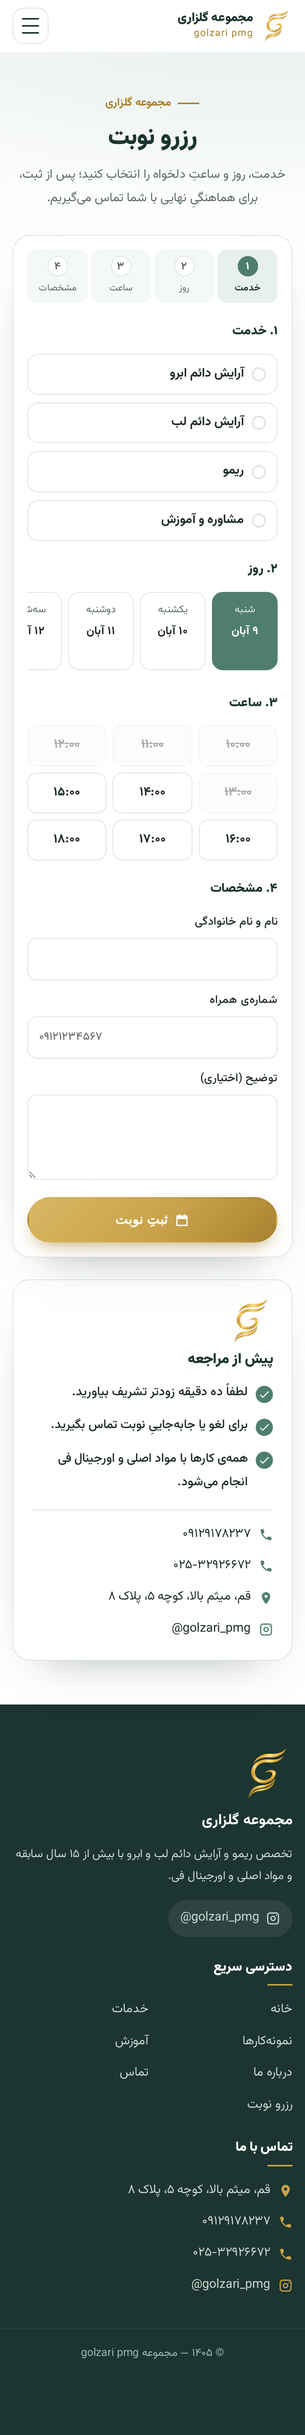
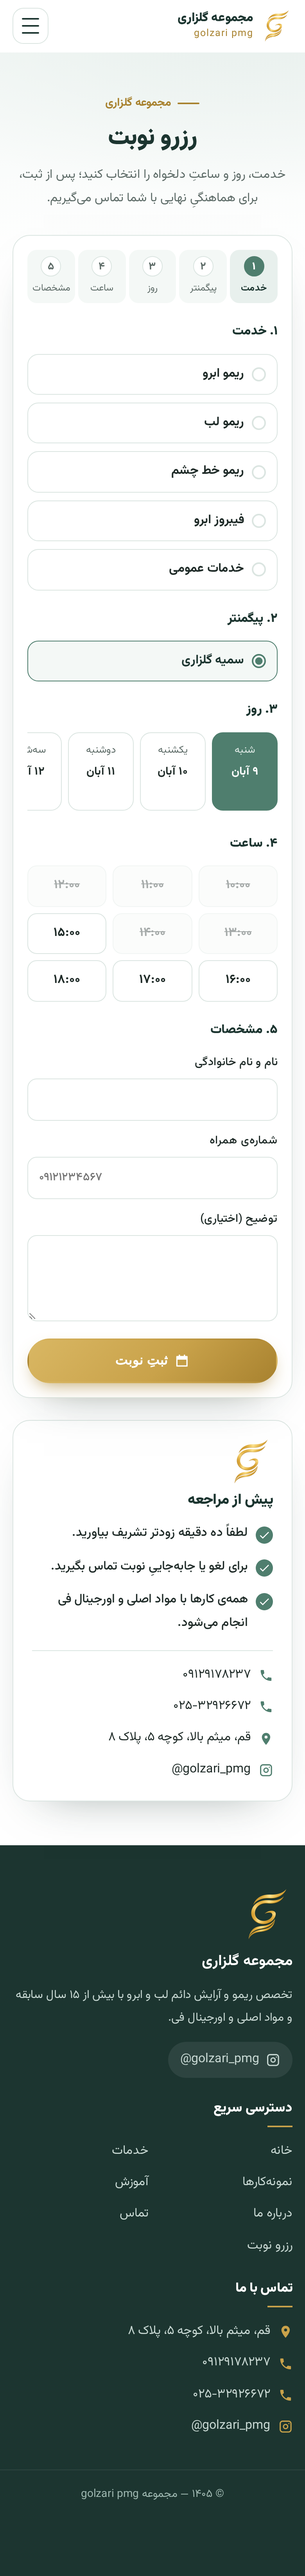
عکس _booking_-mobile.png

diff --git a/_booking_-mobile.html b/_booking_-mobile.html
@@ -16,7 +16,7 @@ img:is([sizes=auto i],[sizes^="auto," i]){contain-intrinsic-size:3000px 1500px}
 /*# sourceURL=wp-img-auto-sizes-contain-inline-css */
 </style>
 <link rel='stylesheet' id='dashicons-css' href='https://golzaripmg.ir/wp-includes/css/dashicons.min.css?ver=7.1.4' media='all' />
-<link rel='stylesheet' id='golzari-home-css' href='https://golzaripmg.ir/wp-content/plugins/golzari-brand/assets/home.css?ver=2.1.0' media='all' />
+<link rel='stylesheet' id='golzari-home-css' href='https://golzaripmg.ir/wp-content/plugins/golzari-brand/assets/home.css?ver=2.2.1' media='all' />
 <link rel="https://api.w.org/" href="https://golzaripmg.ir/wp-json/" /><link rel="alternate" title="JSON" type="application/json" href="https://golzaripmg.ir/wp-json/wp/v2/pages/132" /><link rel="EditURI" type="application/rsd+xml" title="RSD" href="https://golzaripmg.ir/xmlrpc.php?rsd" />
 <meta name="generator" content="WordPress 7.1.4" />
 <link rel="canonical" href="https://golzaripmg.ir/booking/" />
@@ -42,9 +42,9 @@ img:is([sizes=auto i],[sizes^="auto," i]){contain-intrinsic-size:3000px 1500px}
 					}
 				}
 			</style>
-			<link rel="icon" href="https://golzaripmg.ir/wp-content/plugins/golzari-brand/assets/icon-32.png?ver=2.1.0" sizes="32x32" />
-<link rel="icon" href="https://golzaripmg.ir/wp-content/plugins/golzari-brand/assets/icon-192.png?ver=2.1.0" sizes="192x192" />
-<link rel="apple-touch-icon" href="https://golzaripmg.ir/wp-content/plugins/golzari-brand/assets/icon-180.png?ver=2.1.0" />
+			<link rel="icon" href="https://golzaripmg.ir/wp-content/plugins/golzari-brand/assets/icon-32.png?ver=2.2.1" sizes="32x32" />
+<link rel="icon" href="https://golzaripmg.ir/wp-content/plugins/golzari-brand/assets/icon-192.png?ver=2.2.1" sizes="192x192" />
+<link rel="apple-touch-icon" href="https://golzaripmg.ir/wp-content/plugins/golzari-brand/assets/icon-180.png?ver=2.2.1" />
 <meta name="msapplication-TileImage" content="https://golzaripmg.ir/wp-content/uploads/2026/06/cropped-PM-270x270.png" />
 
 </head>
@@ -53,7 +53,7 @@ img:is([sizes=auto i],[sizes^="auto," i]){contain-intrinsic-size:3000px 1500px}
 <header class="gz-header" id="gz-header">
 	<div class="gz-wrap gz-header__in">
 		<a class="gz-brand" href="https://golzaripmg.ir/">
-			<img src="https://golzaripmg.ir/wp-content/plugins/golzari-brand/assets/logo.webp?ver=2.1.0" width="512" height="512" alt="گلزاری">
+			<img src="https://golzaripmg.ir/wp-content/plugins/golzari-brand/assets/logo.webp?ver=2.2.1" width="512" height="512" alt="گلزاری">
 			<span><strong>مجموعه گلزاری</strong><small>golzari pmg</small></span>
 		</a>
 		<nav class="gz-nav" id="gz-nav" aria-label="خانه">
@@ -86,33 +86,42 @@ img:is([sizes=auto i],[sizes^="auto," i]){contain-intrinsic-size:3000px 1500px}
 			<form class="gz-bookform" id="gz-bookform" novalidate>
 				<ol class="gz-steps" aria-hidden="true">
 											<li data-step="1" class="is-on"><b>۱</b><span>خدمت</span></li>
-											<li data-step="2"><b>۲</b><span>روز</span></li>
-											<li data-step="3"><b>۳</b><span>ساعت</span></li>
-											<li data-step="4"><b>۴</b><span>مشخصات</span></li>
+											<li data-step="2"><b>۲</b><span>پیگمنتر</span></li>
+											<li data-step="3"><b>۳</b><span>روز</span></li>
+											<li data-step="4"><b>۴</b><span>ساعت</span></li>
+											<li data-step="5"><b>۵</b><span>مشخصات</span></li>
 									</ol>
 
 				<fieldset class="gz-field">
 					<legend>۱. خدمت</legend>
 					<div class="gz-choices" id="gz-services">
-													<label class="gz-choice"><input type="radio" name="service" value="s1"><span>آرایش دائم ابرو</span></label>
-													<label class="gz-choice"><input type="radio" name="service" value="s2"><span>آرایش دائم لب</span></label>
-													<label class="gz-choice"><input type="radio" name="service" value="s3"><span>ریمو</span></label>
-													<label class="gz-choice"><input type="radio" name="service" value="s4"><span>مشاوره و آموزش</span></label>
+													<label class="gz-choice"><input type="radio" name="service" value="remo-brow"><span>ریمو ابرو</span></label>
+													<label class="gz-choice"><input type="radio" name="service" value="remo-lip"><span>ریمو لب</span></label>
+													<label class="gz-choice"><input type="radio" name="service" value="remo-liner"><span>ریمو خط چشم</span></label>
+													<label class="gz-choice"><input type="radio" name="service" value="fibrosis"><span>فیبروز ابرو</span></label>
+													<label class="gz-choice"><input type="radio" name="service" value="general"><span>خدمات عمومی</span></label>
 											</div>
 				</fieldset>
 
 				<fieldset class="gz-field">
-					<legend>۲. روز</legend>
+					<legend>۲. پیگمنتر</legend>
+					<div class="gz-choices" id="gz-staff">
+													<label class="gz-choice gz-choice--person"><input type="radio" name="staff" value="golzari" checked><span>سمیه گلزاری</span></label>
+											</div>
+				</fieldset>
+
+				<fieldset class="gz-field">
+					<legend>۳. روز</legend>
 					<div class="gz-days" id="gz-days"><p class="gz-muted">در حالِ خواندنِ ساعتهای آزاد…</p></div>
 				</fieldset>
 
 				<fieldset class="gz-field">
-					<legend>۳. ساعت</legend>
+					<legend>۴. ساعت</legend>
 					<div class="gz-times" id="gz-times"><p class="gz-muted">—</p></div>
 				</fieldset>
 
 				<fieldset class="gz-field">
-					<legend>۴. مشخصات</legend>
+					<legend>۵. مشخصات</legend>
 					<div class="gz-inputs">
 						<label><span>نام و نام خانوادگی</span><input type="text" name="name" autocomplete="name" required></label>
 						<label><span>شمارهی همراه</span><input type="tel" name="phone" inputmode="tel" autocomplete="tel" dir="ltr" placeholder="۰۹۱۲۱۲۳۴۵۶۷" required></label>
@@ -135,7 +144,7 @@ img:is([sizes=auto i],[sizes^="auto," i]){contain-intrinsic-size:3000px 1500px}
 			</div>
 
 			<aside class="gz-bookside">
-				<img src="https://golzaripmg.ir/wp-content/plugins/golzari-brand/assets/logo.webp?ver=2.1.0" width="512" height="512" alt="گلزاری" loading="lazy">
+				<img src="https://golzaripmg.ir/wp-content/plugins/golzari-brand/assets/logo.webp?ver=2.2.1" width="512" height="512" alt="گلزاری" loading="lazy">
 				<h3>پیش از مراجعه</h3>
 				<ul class="gz-checks">
 											<li><svg viewBox="0 0 24 24" aria-hidden="true"><path d="M9 16.2 4.8 12l-1.4 1.4L9 19 21 7l-1.4-1.4z"/></svg>لطفاً ده دقیقه زودتر تشریف بیاورید.</li>
@@ -158,7 +167,7 @@ img:is([sizes=auto i],[sizes^="auto," i]){contain-intrinsic-size:3000px 1500px}
 <footer class="gz-footer" id="contact">
 	<div class="gz-wrap gz-footer__in">
 		<div class="gz-footer__brand">
-			<img src="https://golzaripmg.ir/wp-content/plugins/golzari-brand/assets/logo.webp?ver=2.1.0" width="512" height="512" alt="گلزاری" loading="lazy">
+			<img src="https://golzaripmg.ir/wp-content/plugins/golzari-brand/assets/logo.webp?ver=2.2.1" width="512" height="512" alt="گلزاری" loading="lazy">
 			<strong>مجموعه گلزاری</strong>
 			<p>تخصص ریمو و آرایش دائم لب و ابرو با بیش از ۱۵ سال سابقه و مواد اصلی و اورجینال فی.</p>
 			<a class="gz-social" href="https://instagram.com/golzari_pmg/" target="_blank" rel="noopener"><svg viewBox="0 0 24 24" aria-hidden="true"><path d="M7 2h10a5 5 0 0 1 5 5v10a5 5 0 0 1-5 5H7a5 5 0 0 1-5-5V7a5 5 0 0 1 5-5zm0 2a3 3 0 0 0-3 3v10a3 3 0 0 0 3 3h10a3 3 0 0 0 3-3V7a3 3 0 0 0-3-3H7zm5 3.5a4.5 4.5 0 1 1 0 9 4.5 4.5 0 0 1 0-9zm0 2a2.5 2.5 0 1 0 0 5 2.5 2.5 0 0 0 0-5zM17.5 6a1 1 0 1 1 0 2 1 1 0 0 1 0-2z"/></svg><span dir="ltr">@golzari_pmg</span></a>
@@ -207,13 +216,13 @@ img:is([sizes=auto i],[sizes^="auto," i]){contain-intrinsic-size:3000px 1500px}
 		<svg class="ct-icon" width="15" height="15" viewBox="0 0 20 20"><path d="M2.3 15.2L10 7.5l7.7 7.6c.6.7 1.2.7 1.8 0 .6-.6.6-1.3 0-1.9l-8.6-8.6c-.2-.3-.5-.4-.9-.4s-.7.1-.9.4L.5 13.2c-.6.6-.6 1.2 0 1.9.6.8 1.2.7 1.8.1z"/></svg>	</a>
 
 	</div></div>			
-			<script id="golzari-home-js" src="https://golzaripmg.ir/wp-content/plugins/golzari-brand/assets/home.js?ver=2.1.0"></script>
+			<script id="golzari-home-js" src="https://golzaripmg.ir/wp-content/plugins/golzari-brand/assets/home.js?ver=2.2.1"></script>
 <script id="golzari-booking-js-extra">
-var GZBooking = {"api":"https://golzaripmg.ir/wp-json/golzari/v1/booking","msg":{"b_loading":"\u062f\u0631 \u062d\u0627\u0644\u0650 \u062e\u0648\u0627\u0646\u062f\u0646\u0650 \u0633\u0627\u0639\u062a\u200c\u0647\u0627\u06cc \u0622\u0632\u0627\u062f\u2026","b_nofree":"\u0628\u0631\u0627\u06cc \u0627\u06cc\u0646 \u0631\u0648\u0632 \u0633\u0627\u0639\u062a\u0650 \u0622\u0632\u0627\u062f\u06cc \u0646\u0645\u0627\u0646\u062f\u0647\u061b \u0631\u0648\u0632\u0650 \u062f\u06cc\u06af\u0631\u06cc \u0631\u0627 \u0627\u0646\u062a\u062e\u0627\u0628 \u06a9\u0646\u06cc\u062f.","b_closed":"\u062a\u0639\u0637\u06cc\u0644","b_done_title":"\u0646\u0648\u0628\u062a\u0650 \u0634\u0645\u0627 \u062b\u0628\u062a \u0634\u062f","b_done_text":"\u0628\u0631\u0627\u06cc \u0647\u0645\u0627\u0647\u0646\u06af\u06cc\u0650 \u0646\u0647\u0627\u06cc\u06cc \u0628\u0647\u200c\u0632\u0648\u062f\u06cc \u0628\u0627 \u0634\u0645\u0627 \u062a\u0645\u0627\u0633 \u0645\u06cc\u200c\u06af\u06cc\u0631\u06cc\u0645.","b_err_phone":"\u0634\u0645\u0627\u0631\u0647\u200c\u06cc \u0647\u0645\u0631\u0627\u0647 \u0631\u0627 \u062f\u0631\u0633\u062a \u0648\u0627\u0631\u062f \u06a9\u0646\u06cc\u062f (\u0645\u062b\u0644\u0650 \u06f0\u06f9\u06f1\u06f2\u06f1\u06f2\u06f3\u06f4\u06f5\u06f6\u06f7).","b_err_name":"\u0646\u0627\u0645 \u0631\u0627 \u0648\u0627\u0631\u062f \u06a9\u0646\u06cc\u062f.","b_err_pick":"\u062e\u062f\u0645\u062a\u060c \u0631\u0648\u0632 \u0648 \u0633\u0627\u0639\u062a \u0631\u0627 \u0627\u0646\u062a\u062e\u0627\u0628 \u06a9\u0646\u06cc\u062f.","b_err_taken":"\u0627\u06cc\u0646 \u0633\u0627\u0639\u062a \u0647\u0645\u06cc\u0646 \u062d\u0627\u0644\u0627 \u0631\u0632\u0631\u0648 \u0634\u062f\u061b \u0633\u0627\u0639\u062a\u0650 \u062f\u06cc\u06af\u0631\u06cc \u0627\u0646\u062a\u062e\u0627\u0628 \u06a9\u0646\u06cc\u062f.","b_err_limit":"\u062a\u0639\u062f\u0627\u062f\u0650 \u062f\u0631\u062e\u0648\u0627\u0633\u062a\u200c\u0647\u0627 \u0632\u06cc\u0627\u062f \u0627\u0633\u062a\u061b \u06a9\u0645\u06cc \u0628\u0639\u062f \u062f\u0648\u0628\u0627\u0631\u0647 \u0627\u0645\u062a\u062d\u0627\u0646 \u06a9\u0646\u06cc\u062f \u06cc\u0627 \u062a\u0645\u0627\u0633 \u0628\u06af\u06cc\u0631\u06cc\u062f.","b_err_net":"\u0627\u0631\u062a\u0628\u0627\u0637 \u0628\u0631\u0642\u0631\u0627\u0631 \u0646\u0634\u062f\u061b \u062f\u0648\u0628\u0627\u0631\u0647 \u0627\u0645\u062a\u062d\u0627\u0646 \u06a9\u0646\u06cc\u062f \u06cc\u0627 \u062a\u0645\u0627\u0633 \u0628\u06af\u06cc\u0631\u06cc\u062f.","b_submit":"\u062b\u0628\u062a\u0650 \u0646\u0648\u0628\u062a","b_step1":"\u062e\u062f\u0645\u062a","b_step2":"\u0631\u0648\u0632","b_step3":"\u0633\u0627\u0639\u062a","b_name":"\u0646\u0627\u0645 \u0648 \u0646\u0627\u0645 \u062e\u0627\u0646\u0648\u0627\u062f\u06af\u06cc"}};
-var GZBooking = {"api":"https://golzaripmg.ir/wp-json/golzari/v1/booking","msg":{"b_loading":"\u062f\u0631 \u062d\u0627\u0644\u0650 \u062e\u0648\u0627\u0646\u062f\u0646\u0650 \u0633\u0627\u0639\u062a\u200c\u0647\u0627\u06cc \u0622\u0632\u0627\u062f\u2026","b_nofree":"\u0628\u0631\u0627\u06cc \u0627\u06cc\u0646 \u0631\u0648\u0632 \u0633\u0627\u0639\u062a\u0650 \u0622\u0632\u0627\u062f\u06cc \u0646\u0645\u0627\u0646\u062f\u0647\u061b \u0631\u0648\u0632\u0650 \u062f\u06cc\u06af\u0631\u06cc \u0631\u0627 \u0627\u0646\u062a\u062e\u0627\u0628 \u06a9\u0646\u06cc\u062f.","b_closed":"\u062a\u0639\u0637\u06cc\u0644","b_done_title":"\u0646\u0648\u0628\u062a\u0650 \u0634\u0645\u0627 \u062b\u0628\u062a \u0634\u062f","b_done_text":"\u0628\u0631\u0627\u06cc \u0647\u0645\u0627\u0647\u0646\u06af\u06cc\u0650 \u0646\u0647\u0627\u06cc\u06cc \u0628\u0647\u200c\u0632\u0648\u062f\u06cc \u0628\u0627 \u0634\u0645\u0627 \u062a\u0645\u0627\u0633 \u0645\u06cc\u200c\u06af\u06cc\u0631\u06cc\u0645.","b_err_phone":"\u0634\u0645\u0627\u0631\u0647\u200c\u06cc \u0647\u0645\u0631\u0627\u0647 \u0631\u0627 \u062f\u0631\u0633\u062a \u0648\u0627\u0631\u062f \u06a9\u0646\u06cc\u062f (\u0645\u062b\u0644\u0650 \u06f0\u06f9\u06f1\u06f2\u06f1\u06f2\u06f3\u06f4\u06f5\u06f6\u06f7).","b_err_name":"\u0646\u0627\u0645 \u0631\u0627 \u0648\u0627\u0631\u062f \u06a9\u0646\u06cc\u062f.","b_err_pick":"\u062e\u062f\u0645\u062a\u060c \u0631\u0648\u0632 \u0648 \u0633\u0627\u0639\u062a \u0631\u0627 \u0627\u0646\u062a\u062e\u0627\u0628 \u06a9\u0646\u06cc\u062f.","b_err_taken":"\u0627\u06cc\u0646 \u0633\u0627\u0639\u062a \u0647\u0645\u06cc\u0646 \u062d\u0627\u0644\u0627 \u0631\u0632\u0631\u0648 \u0634\u062f\u061b \u0633\u0627\u0639\u062a\u0650 \u062f\u06cc\u06af\u0631\u06cc \u0627\u0646\u062a\u062e\u0627\u0628 \u06a9\u0646\u06cc\u062f.","b_err_limit":"\u062a\u0639\u062f\u0627\u062f\u0650 \u062f\u0631\u062e\u0648\u0627\u0633\u062a\u200c\u0647\u0627 \u0632\u06cc\u0627\u062f \u0627\u0633\u062a\u061b \u06a9\u0645\u06cc \u0628\u0639\u062f \u062f\u0648\u0628\u0627\u0631\u0647 \u0627\u0645\u062a\u062d\u0627\u0646 \u06a9\u0646\u06cc\u062f \u06cc\u0627 \u062a\u0645\u0627\u0633 \u0628\u06af\u06cc\u0631\u06cc\u062f.","b_err_net":"\u0627\u0631\u062a\u0628\u0627\u0637 \u0628\u0631\u0642\u0631\u0627\u0631 \u0646\u0634\u062f\u061b \u062f\u0648\u0628\u0627\u0631\u0647 \u0627\u0645\u062a\u062d\u0627\u0646 \u06a9\u0646\u06cc\u062f \u06cc\u0627 \u062a\u0645\u0627\u0633 \u0628\u06af\u06cc\u0631\u06cc\u062f.","b_submit":"\u062b\u0628\u062a\u0650 \u0646\u0648\u0628\u062a","b_step1":"\u062e\u062f\u0645\u062a","b_step2":"\u0631\u0648\u0632","b_step3":"\u0633\u0627\u0639\u062a","b_name":"\u0646\u0627\u0645 \u0648 \u0646\u0627\u0645 \u062e\u0627\u0646\u0648\u0627\u062f\u06af\u06cc"}};
-var GZBooking = {"api":"https://golzaripmg.ir/wp-json/golzari/v1/booking","msg":{"b_loading":"\u062f\u0631 \u062d\u0627\u0644\u0650 \u062e\u0648\u0627\u0646\u062f\u0646\u0650 \u0633\u0627\u0639\u062a\u200c\u0647\u0627\u06cc \u0622\u0632\u0627\u062f\u2026","b_nofree":"\u0628\u0631\u0627\u06cc \u0627\u06cc\u0646 \u0631\u0648\u0632 \u0633\u0627\u0639\u062a\u0650 \u0622\u0632\u0627\u062f\u06cc \u0646\u0645\u0627\u0646\u062f\u0647\u061b \u0631\u0648\u0632\u0650 \u062f\u06cc\u06af\u0631\u06cc \u0631\u0627 \u0627\u0646\u062a\u062e\u0627\u0628 \u06a9\u0646\u06cc\u062f.","b_closed":"\u062a\u0639\u0637\u06cc\u0644","b_done_title":"\u0646\u0648\u0628\u062a\u0650 \u0634\u0645\u0627 \u062b\u0628\u062a \u0634\u062f","b_done_text":"\u0628\u0631\u0627\u06cc \u0647\u0645\u0627\u0647\u0646\u06af\u06cc\u0650 \u0646\u0647\u0627\u06cc\u06cc \u0628\u0647\u200c\u0632\u0648\u062f\u06cc \u0628\u0627 \u0634\u0645\u0627 \u062a\u0645\u0627\u0633 \u0645\u06cc\u200c\u06af\u06cc\u0631\u06cc\u0645.","b_err_phone":"\u0634\u0645\u0627\u0631\u0647\u200c\u06cc \u0647\u0645\u0631\u0627\u0647 \u0631\u0627 \u062f\u0631\u0633\u062a \u0648\u0627\u0631\u062f \u06a9\u0646\u06cc\u062f (\u0645\u062b\u0644\u0650 \u06f0\u06f9\u06f1\u06f2\u06f1\u06f2\u06f3\u06f4\u06f5\u06f6\u06f7).","b_err_name":"\u0646\u0627\u0645 \u0631\u0627 \u0648\u0627\u0631\u062f \u06a9\u0646\u06cc\u062f.","b_err_pick":"\u062e\u062f\u0645\u062a\u060c \u0631\u0648\u0632 \u0648 \u0633\u0627\u0639\u062a \u0631\u0627 \u0627\u0646\u062a\u062e\u0627\u0628 \u06a9\u0646\u06cc\u062f.","b_err_taken":"\u0627\u06cc\u0646 \u0633\u0627\u0639\u062a \u0647\u0645\u06cc\u0646 \u062d\u0627\u0644\u0627 \u0631\u0632\u0631\u0648 \u0634\u062f\u061b \u0633\u0627\u0639\u062a\u0650 \u062f\u06cc\u06af\u0631\u06cc \u0627\u0646\u062a\u062e\u0627\u0628 \u06a9\u0646\u06cc\u062f.","b_err_limit":"\u062a\u0639\u062f\u0627\u062f\u0650 \u062f\u0631\u062e\u0648\u0627\u0633\u062a\u200c\u0647\u0627 \u0632\u06cc\u0627\u062f \u0627\u0633\u062a\u061b \u06a9\u0645\u06cc \u0628\u0639\u062f \u062f\u0648\u0628\u0627\u0631\u0647 \u0627\u0645\u062a\u062d\u0627\u0646 \u06a9\u0646\u06cc\u062f \u06cc\u0627 \u062a\u0645\u0627\u0633 \u0628\u06af\u06cc\u0631\u06cc\u062f.","b_err_net":"\u0627\u0631\u062a\u0628\u0627\u0637 \u0628\u0631\u0642\u0631\u0627\u0631 \u0646\u0634\u062f\u061b \u062f\u0648\u0628\u0627\u0631\u0647 \u0627\u0645\u062a\u062d\u0627\u0646 \u06a9\u0646\u06cc\u062f \u06cc\u0627 \u062a\u0645\u0627\u0633 \u0628\u06af\u06cc\u0631\u06cc\u062f.","b_submit":"\u062b\u0628\u062a\u0650 \u0646\u0648\u0628\u062a","b_step1":"\u062e\u062f\u0645\u062a","b_step2":"\u0631\u0648\u0632","b_step3":"\u0633\u0627\u0639\u062a","b_name":"\u0646\u0627\u0645 \u0648 \u0646\u0627\u0645 \u062e\u0627\u0646\u0648\u0627\u062f\u06af\u06cc"}};
+var GZBooking = {"api":"https://golzaripmg.ir/wp-json/golzari/v1/booking","msg":{"b_loading":"\u062f\u0631 \u062d\u0627\u0644\u0650 \u062e\u0648\u0627\u0646\u062f\u0646\u0650 \u0633\u0627\u0639\u062a\u200c\u0647\u0627\u06cc \u0622\u0632\u0627\u062f\u2026","b_nofree":"\u0628\u0631\u0627\u06cc \u0627\u06cc\u0646 \u0631\u0648\u0632 \u0633\u0627\u0639\u062a\u0650 \u0622\u0632\u0627\u062f\u06cc \u0646\u0645\u0627\u0646\u062f\u0647\u061b \u0631\u0648\u0632\u0650 \u062f\u06cc\u06af\u0631\u06cc \u0631\u0627 \u0627\u0646\u062a\u062e\u0627\u0628 \u06a9\u0646\u06cc\u062f.","b_closed":"\u062a\u0639\u0637\u06cc\u0644","b_done_title":"\u0646\u0648\u0628\u062a\u0650 \u0634\u0645\u0627 \u062b\u0628\u062a \u0634\u062f","b_done_text":"\u0628\u0631\u0627\u06cc \u0647\u0645\u0627\u0647\u0646\u06af\u06cc\u0650 \u0646\u0647\u0627\u06cc\u06cc \u0628\u0647\u200c\u0632\u0648\u062f\u06cc \u0628\u0627 \u0634\u0645\u0627 \u062a\u0645\u0627\u0633 \u0645\u06cc\u200c\u06af\u06cc\u0631\u06cc\u0645.","b_err_phone":"\u0634\u0645\u0627\u0631\u0647\u200c\u06cc \u0647\u0645\u0631\u0627\u0647 \u0631\u0627 \u062f\u0631\u0633\u062a \u0648\u0627\u0631\u062f \u06a9\u0646\u06cc\u062f (\u0645\u062b\u0644\u0650 \u06f0\u06f9\u06f1\u06f2\u06f1\u06f2\u06f3\u06f4\u06f5\u06f6\u06f7).","b_err_name":"\u0646\u0627\u0645 \u0631\u0627 \u0648\u0627\u0631\u062f \u06a9\u0646\u06cc\u062f.","b_err_pick":"\u062e\u062f\u0645\u062a\u060c \u067e\u06cc\u06af\u0645\u0646\u062a\u0631\u060c \u0631\u0648\u0632 \u0648 \u0633\u0627\u0639\u062a \u0631\u0627 \u0627\u0646\u062a\u062e\u0627\u0628 \u06a9\u0646\u06cc\u062f.","b_err_taken":"\u0627\u06cc\u0646 \u0633\u0627\u0639\u062a \u0647\u0645\u06cc\u0646 \u062d\u0627\u0644\u0627 \u0631\u0632\u0631\u0648 \u0634\u062f\u061b \u0633\u0627\u0639\u062a\u0650 \u062f\u06cc\u06af\u0631\u06cc \u0627\u0646\u062a\u062e\u0627\u0628 \u06a9\u0646\u06cc\u062f.","b_err_limit":"\u062a\u0639\u062f\u0627\u062f\u0650 \u062f\u0631\u062e\u0648\u0627\u0633\u062a\u200c\u0647\u0627 \u0632\u06cc\u0627\u062f \u0627\u0633\u062a\u061b \u06a9\u0645\u06cc \u0628\u0639\u062f \u062f\u0648\u0628\u0627\u0631\u0647 \u0627\u0645\u062a\u062d\u0627\u0646 \u06a9\u0646\u06cc\u062f \u06cc\u0627 \u062a\u0645\u0627\u0633 \u0628\u06af\u06cc\u0631\u06cc\u062f.","b_err_net":"\u0627\u0631\u062a\u0628\u0627\u0637 \u0628\u0631\u0642\u0631\u0627\u0631 \u0646\u0634\u062f\u061b \u062f\u0648\u0628\u0627\u0631\u0647 \u0627\u0645\u062a\u062d\u0627\u0646 \u06a9\u0646\u06cc\u062f \u06cc\u0627 \u062a\u0645\u0627\u0633 \u0628\u06af\u06cc\u0631\u06cc\u062f.","b_submit":"\u062b\u0628\u062a\u0650 \u0646\u0648\u0628\u062a","b_step1":"\u062e\u062f\u0645\u062a","b_step_staff":"\u067e\u06cc\u06af\u0645\u0646\u062a\u0631","b_step2":"\u0631\u0648\u0632","b_step3":"\u0633\u0627\u0639\u062a","b_name":"\u0646\u0627\u0645 \u0648 \u0646\u0627\u0645 \u062e\u0627\u0646\u0648\u0627\u062f\u06af\u06cc"}};
+var GZBooking = {"api":"https://golzaripmg.ir/wp-json/golzari/v1/booking","msg":{"b_loading":"\u062f\u0631 \u062d\u0627\u0644\u0650 \u062e\u0648\u0627\u0646\u062f\u0646\u0650 \u0633\u0627\u0639\u062a\u200c\u0647\u0627\u06cc \u0622\u0632\u0627\u062f\u2026","b_nofree":"\u0628\u0631\u0627\u06cc \u0627\u06cc\u0646 \u0631\u0648\u0632 \u0633\u0627\u0639\u062a\u0650 \u0622\u0632\u0627\u062f\u06cc \u0646\u0645\u0627\u0646\u062f\u0647\u061b \u0631\u0648\u0632\u0650 \u062f\u06cc\u06af\u0631\u06cc \u0631\u0627 \u0627\u0646\u062a\u062e\u0627\u0628 \u06a9\u0646\u06cc\u062f.","b_closed":"\u062a\u0639\u0637\u06cc\u0644","b_done_title":"\u0646\u0648\u0628\u062a\u0650 \u0634\u0645\u0627 \u062b\u0628\u062a \u0634\u062f","b_done_text":"\u0628\u0631\u0627\u06cc \u0647\u0645\u0627\u0647\u0646\u06af\u06cc\u0650 \u0646\u0647\u0627\u06cc\u06cc \u0628\u0647\u200c\u0632\u0648\u062f\u06cc \u0628\u0627 \u0634\u0645\u0627 \u062a\u0645\u0627\u0633 \u0645\u06cc\u200c\u06af\u06cc\u0631\u06cc\u0645.","b_err_phone":"\u0634\u0645\u0627\u0631\u0647\u200c\u06cc \u0647\u0645\u0631\u0627\u0647 \u0631\u0627 \u062f\u0631\u0633\u062a \u0648\u0627\u0631\u062f \u06a9\u0646\u06cc\u062f (\u0645\u062b\u0644\u0650 \u06f0\u06f9\u06f1\u06f2\u06f1\u06f2\u06f3\u06f4\u06f5\u06f6\u06f7).","b_err_name":"\u0646\u0627\u0645 \u0631\u0627 \u0648\u0627\u0631\u062f \u06a9\u0646\u06cc\u062f.","b_err_pick":"\u062e\u062f\u0645\u062a\u060c \u067e\u06cc\u06af\u0645\u0646\u062a\u0631\u060c \u0631\u0648\u0632 \u0648 \u0633\u0627\u0639\u062a \u0631\u0627 \u0627\u0646\u062a\u062e\u0627\u0628 \u06a9\u0646\u06cc\u062f.","b_err_taken":"\u0627\u06cc\u0646 \u0633\u0627\u0639\u062a \u0647\u0645\u06cc\u0646 \u062d\u0627\u0644\u0627 \u0631\u0632\u0631\u0648 \u0634\u062f\u061b \u0633\u0627\u0639\u062a\u0650 \u062f\u06cc\u06af\u0631\u06cc \u0627\u0646\u062a\u062e\u0627\u0628 \u06a9\u0646\u06cc\u062f.","b_err_limit":"\u062a\u0639\u062f\u0627\u062f\u0650 \u062f\u0631\u062e\u0648\u0627\u0633\u062a\u200c\u0647\u0627 \u0632\u06cc\u0627\u062f \u0627\u0633\u062a\u061b \u06a9\u0645\u06cc \u0628\u0639\u062f \u062f\u0648\u0628\u0627\u0631\u0647 \u0627\u0645\u062a\u062d\u0627\u0646 \u06a9\u0646\u06cc\u062f \u06cc\u0627 \u062a\u0645\u0627\u0633 \u0628\u06af\u06cc\u0631\u06cc\u062f.","b_err_net":"\u0627\u0631\u062a\u0628\u0627\u0637 \u0628\u0631\u0642\u0631\u0627\u0631 \u0646\u0634\u062f\u061b \u062f\u0648\u0628\u0627\u0631\u0647 \u0627\u0645\u062a\u062d\u0627\u0646 \u06a9\u0646\u06cc\u062f \u06cc\u0627 \u062a\u0645\u0627\u0633 \u0628\u06af\u06cc\u0631\u06cc\u062f.","b_submit":"\u062b\u0628\u062a\u0650 \u0646\u0648\u0628\u062a","b_step1":"\u062e\u062f\u0645\u062a","b_step_staff":"\u067e\u06cc\u06af\u0645\u0646\u062a\u0631","b_step2":"\u0631\u0648\u0632","b_step3":"\u0633\u0627\u0639\u062a","b_name":"\u0646\u0627\u0645 \u0648 \u0646\u0627\u0645 \u062e\u0627\u0646\u0648\u0627\u062f\u06af\u06cc"}};
+var GZBooking = {"api":"https://golzaripmg.ir/wp-json/golzari/v1/booking","msg":{"b_loading":"\u062f\u0631 \u062d\u0627\u0644\u0650 \u062e\u0648\u0627\u0646\u062f\u0646\u0650 \u0633\u0627\u0639\u062a\u200c\u0647\u0627\u06cc \u0622\u0632\u0627\u062f\u2026","b_nofree":"\u0628\u0631\u0627\u06cc \u0627\u06cc\u0646 \u0631\u0648\u0632 \u0633\u0627\u0639\u062a\u0650 \u0622\u0632\u0627\u062f\u06cc \u0646\u0645\u0627\u0646\u062f\u0647\u061b \u0631\u0648\u0632\u0650 \u062f\u06cc\u06af\u0631\u06cc \u0631\u0627 \u0627\u0646\u062a\u062e\u0627\u0628 \u06a9\u0646\u06cc\u062f.","b_closed":"\u062a\u0639\u0637\u06cc\u0644","b_done_title":"\u0646\u0648\u0628\u062a\u0650 \u0634\u0645\u0627 \u062b\u0628\u062a \u0634\u062f","b_done_text":"\u0628\u0631\u0627\u06cc \u0647\u0645\u0627\u0647\u0646\u06af\u06cc\u0650 \u0646\u0647\u0627\u06cc\u06cc \u0628\u0647\u200c\u0632\u0648\u062f\u06cc \u0628\u0627 \u0634\u0645\u0627 \u062a\u0645\u0627\u0633 \u0645\u06cc\u200c\u06af\u06cc\u0631\u06cc\u0645.","b_err_phone":"\u0634\u0645\u0627\u0631\u0647\u200c\u06cc \u0647\u0645\u0631\u0627\u0647 \u0631\u0627 \u062f\u0631\u0633\u062a \u0648\u0627\u0631\u062f \u06a9\u0646\u06cc\u062f (\u0645\u062b\u0644\u0650 \u06f0\u06f9\u06f1\u06f2\u06f1\u06f2\u06f3\u06f4\u06f5\u06f6\u06f7).","b_err_name":"\u0646\u0627\u0645 \u0631\u0627 \u0648\u0627\u0631\u062f \u06a9\u0646\u06cc\u062f.","b_err_pick":"\u062e\u062f\u0645\u062a\u060c \u067e\u06cc\u06af\u0645\u0646\u062a\u0631\u060c \u0631\u0648\u0632 \u0648 \u0633\u0627\u0639\u062a \u0631\u0627 \u0627\u0646\u062a\u062e\u0627\u0628 \u06a9\u0646\u06cc\u062f.","b_err_taken":"\u0627\u06cc\u0646 \u0633\u0627\u0639\u062a \u0647\u0645\u06cc\u0646 \u062d\u0627\u0644\u0627 \u0631\u0632\u0631\u0648 \u0634\u062f\u061b \u0633\u0627\u0639\u062a\u0650 \u062f\u06cc\u06af\u0631\u06cc \u0627\u0646\u062a\u062e\u0627\u0628 \u06a9\u0646\u06cc\u062f.","b_err_limit":"\u062a\u0639\u062f\u0627\u062f\u0650 \u062f\u0631\u062e\u0648\u0627\u0633\u062a\u200c\u0647\u0627 \u0632\u06cc\u0627\u062f \u0627\u0633\u062a\u061b \u06a9\u0645\u06cc \u0628\u0639\u062f \u062f\u0648\u0628\u0627\u0631\u0647 \u0627\u0645\u062a\u062d\u0627\u0646 \u06a9\u0646\u06cc\u062f \u06cc\u0627 \u062a\u0645\u0627\u0633 \u0628\u06af\u06cc\u0631\u06cc\u062f.","b_err_net":"\u0627\u0631\u062a\u0628\u0627\u0637 \u0628\u0631\u0642\u0631\u0627\u0631 \u0646\u0634\u062f\u061b \u062f\u0648\u0628\u0627\u0631\u0647 \u0627\u0645\u062a\u062d\u0627\u0646 \u06a9\u0646\u06cc\u062f \u06cc\u0627 \u062a\u0645\u0627\u0633 \u0628\u06af\u06cc\u0631\u06cc\u062f.","b_submit":"\u062b\u0628\u062a\u0650 \u0646\u0648\u0628\u062a","b_step1":"\u062e\u062f\u0645\u062a","b_step_staff":"\u067e\u06cc\u06af\u0645\u0646\u062a\u0631","b_step2":"\u0631\u0648\u0632","b_step3":"\u0633\u0627\u0639\u062a","b_name":"\u0646\u0627\u0645 \u0648 \u0646\u0627\u0645 \u062e\u0627\u0646\u0648\u0627\u062f\u06af\u06cc"}};
 //# sourceURL=golzari-booking-js-extra
 </script>
-<script id="golzari-booking-js" src="https://golzaripmg.ir/wp-content/plugins/golzari-brand/assets/booking.js?ver=2.1.0"></script>
+<script id="golzari-booking-js" src="https://golzaripmg.ir/wp-content/plugins/golzari-brand/assets/booking.js?ver=2.2.1"></script>
 </body>
 </html>
